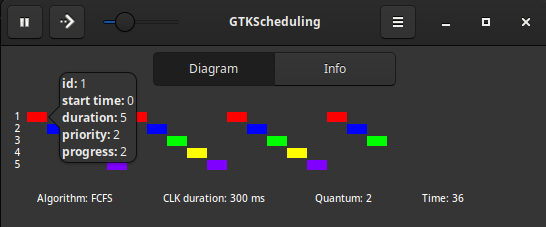
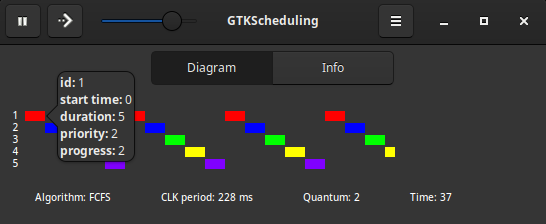
rename to CLK period; rename stats.jpg -> info.jpg; update imgs and readme

diff --git a/src/window.py b/src/window.py
@@ -90,7 +90,7 @@ class Window(Gtk.Window):
             step=1
         )
         slider.set_draw_value(False)  # Hide the numerical value display
-        slider.set_size_request(100, -1)  # Set width
+        slider.set_size_request(120, -1)  # Set width
         slider.set_value(self.app.timer.interval_ms)  # Set initial value to match the variable
         slider.connect("value-changed", self._on_slider_value_changed)
         headerbar.pack_start(slider)
@@ -243,7 +243,7 @@ class Window(Gtk.Window):
 
         texts = [
             f"Algorithm: {self.app.scheduler.alg_scheduling}",
-            f"CLK duration: {self.app.timer.interval_ms:.0f} ms",
+            f"CLK period: {self.app.timer.interval_ms:.0f} ms",
             f"Quantum: {self.app.scheduler.quantum}",
             f"Time: {self.app.scheduler.time}",
         ]
@@ -279,8 +279,8 @@ class Window(Gtk.Window):
         self.label_info.set_markup(
             f"<big><b>Algorithm:</b> {self.app.scheduler.alg_scheduling}</big>\n"
             f"<big><b>Tasks:</b> {len(self.list_tasks)}</big>\n"
-            f"<big><b>CLK duration:</b> {self.app.timer.interval_ms:.0f} ms</big>\n"
-            f"<big><b>Quantum:</b> {self.app.scheduler.quantum} CLKs</big>\n"
+            f"<big><b>CLK period:</b> {self.app.timer.interval_ms:.0f} ms</big>\n"
+            f"<big><b>Quantum:</b> {self.app.scheduler.quantum}</big>\n"
             f"<big><b>Time:</b> {self.app.scheduler.time}</big>"
         )
      

diff --git a/README.md b/README.md
@@ -6,7 +6,7 @@ GTKScheduling is a simple GTK 3 based app to simulate CPU scheduling.
 
 <p align="center" width="100%">
 <img src="imgs/diagram.png">
-<img src="imgs/stats.png">
+<img src="imgs/info.png">
 </p>
 
 ## Requirements
